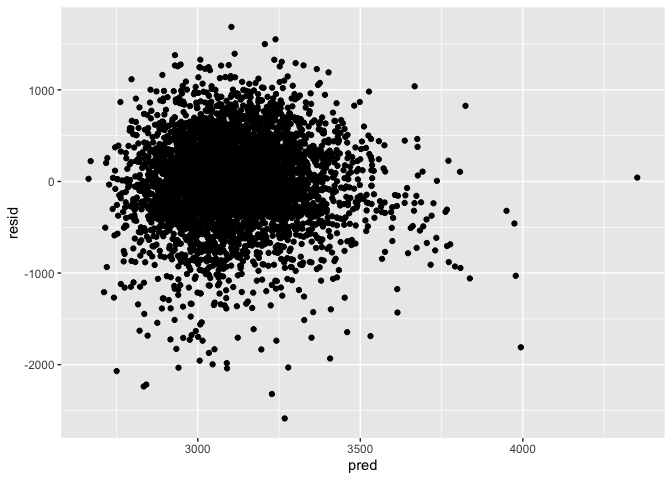
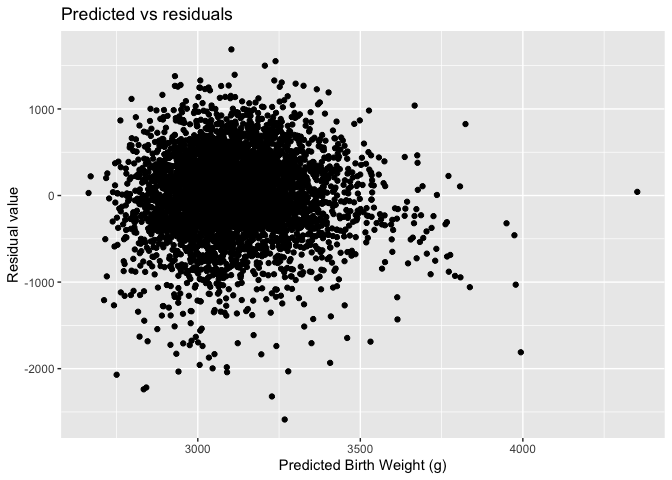
Updating Bootstrap to include all, adding some labels to plots, making CI into knitr table

diff --git a/p8105_jl5934_hw6.md b/p8105_jl5934_hw6.md
@@ -174,12 +174,8 @@ of the total samples each time, with replacement, and creates 5000 new
 subsets.
 
 ``` r
-#lm(tmax ~ tmin + prcp, data = weather_df) %>%
- # broom::glance() #%>% #r.squared 
-  #broom::tidy() #log(tibble[2,4]*tibble[3,4])
-
 boot_sample = function(df) {
-  sample_frac(tbl = df, size = .25, replace = TRUE)
+  sample_frac(tbl = df, replace = TRUE) #size = .25, 
 }
 
 boot_straps = 
@@ -192,18 +188,18 @@ boot_straps
 ```
 
     ## # A tibble: 5,000 × 2
-    ##    strap_number strap_sample     
-    ##           <int> <list>           
-    ##  1            1 <tibble [91 × 6]>
-    ##  2            2 <tibble [91 × 6]>
-    ##  3            3 <tibble [91 × 6]>
-    ##  4            4 <tibble [91 × 6]>
-    ##  5            5 <tibble [91 × 6]>
-    ##  6            6 <tibble [91 × 6]>
-    ##  7            7 <tibble [91 × 6]>
-    ##  8            8 <tibble [91 × 6]>
-    ##  9            9 <tibble [91 × 6]>
-    ## 10           10 <tibble [91 × 6]>
+    ##    strap_number strap_sample      
+    ##           <int> <list>            
+    ##  1            1 <tibble [365 × 6]>
+    ##  2            2 <tibble [365 × 6]>
+    ##  3            3 <tibble [365 × 6]>
+    ##  4            4 <tibble [365 × 6]>
+    ##  5            5 <tibble [365 × 6]>
+    ##  6            6 <tibble [365 × 6]>
+    ##  7            7 <tibble [365 × 6]>
+    ##  8            8 <tibble [365 × 6]>
+    ##  9            9 <tibble [365 × 6]>
+    ## 10           10 <tibble [365 × 6]>
     ## # ℹ 4,990 more rows
 
 We will then utilize these bootstrapped subsets and map them over a
@@ -266,10 +262,12 @@ log_betas = bootstrap_results %>%
 log_betas %>%
   ggplot(aes(x = log_beta_multiple)) +
   geom_density() +
-  labs(title = )
+  labs(title = "Distribution of Log(B1*B2)", 
+       x = "log(B1*B2) value",
+       y = "Frequency")
 ```
 
-    ## Warning: Removed 3724 rows containing non-finite values (`stat_density()`).
+    ## Warning: Removed 3359 rows containing non-finite values (`stat_density()`).
 
 ![](p8105_jl5934_hw6_files/figure-gfm/unnamed-chunk-1-1.png)<!-- -->
 
@@ -385,7 +383,10 @@ birthweight.df %>%
   modelr::add_residuals(fit_mine) %>%
   modelr::add_predictions(fit_mine) %>%
   ggplot(aes(x = pred, y = resid)) +
-  geom_point()
+  geom_point() +
+  labs(title = "Predicted vs residuals", 
+       x = "Predicted Birth Weight (g)",
+       y = "Residual value")
 ```
 
 ![](p8105_jl5934_hw6_files/figure-gfm/unnamed-chunk-2-1.png)<!-- -->
@@ -418,7 +419,10 @@ birthweight.df %>%
   modelr::add_residuals(fit_main) %>%
   modelr::add_predictions(fit_main) %>%
   ggplot(aes(x = pred, y = resid)) +
-  geom_point() 
+  geom_point() +
+  labs(title = "Predicted vs residuals", 
+       x = "Predicted Birth Weight (g)",
+       y = "Residual value")
 ```
 
 ![](p8105_jl5934_hw6_files/figure-gfm/main%20and%20alternate%20models%20for%20birthweights-1.png)<!-- -->
@@ -468,7 +472,10 @@ birthweight.df %>%
   modelr::add_residuals(fit_alt) %>%
   modelr::add_predictions(fit_alt) %>%
   ggplot(aes(x = pred, y = resid)) +
-  geom_point()
+  geom_point() +
+  labs(title = "Predicted vs residuals", 
+       x = "Predicted Birth Weight (g)",
+       y = "Residual value")
 ```
 
 ![](p8105_jl5934_hw6_files/figure-gfm/unnamed-chunk-3-1.png)<!-- -->
@@ -514,7 +521,10 @@ cv_df |>
     values_to = "rmse",
     names_prefix = "rmse_") |> 
   mutate(model = fct_inorder(model)) |> 
-  ggplot(aes(x = model, y = rmse)) + geom_violin()
+  ggplot(aes(x = model, y = rmse)) + geom_violin() +
+  labs(title = "Density Plot of RMSE values", 
+       x = "Model",
+       y = "Frequency")
 ```
 
 ![](p8105_jl5934_hw6_files/figure-gfm/density%20plot-1.png)<!-- -->
